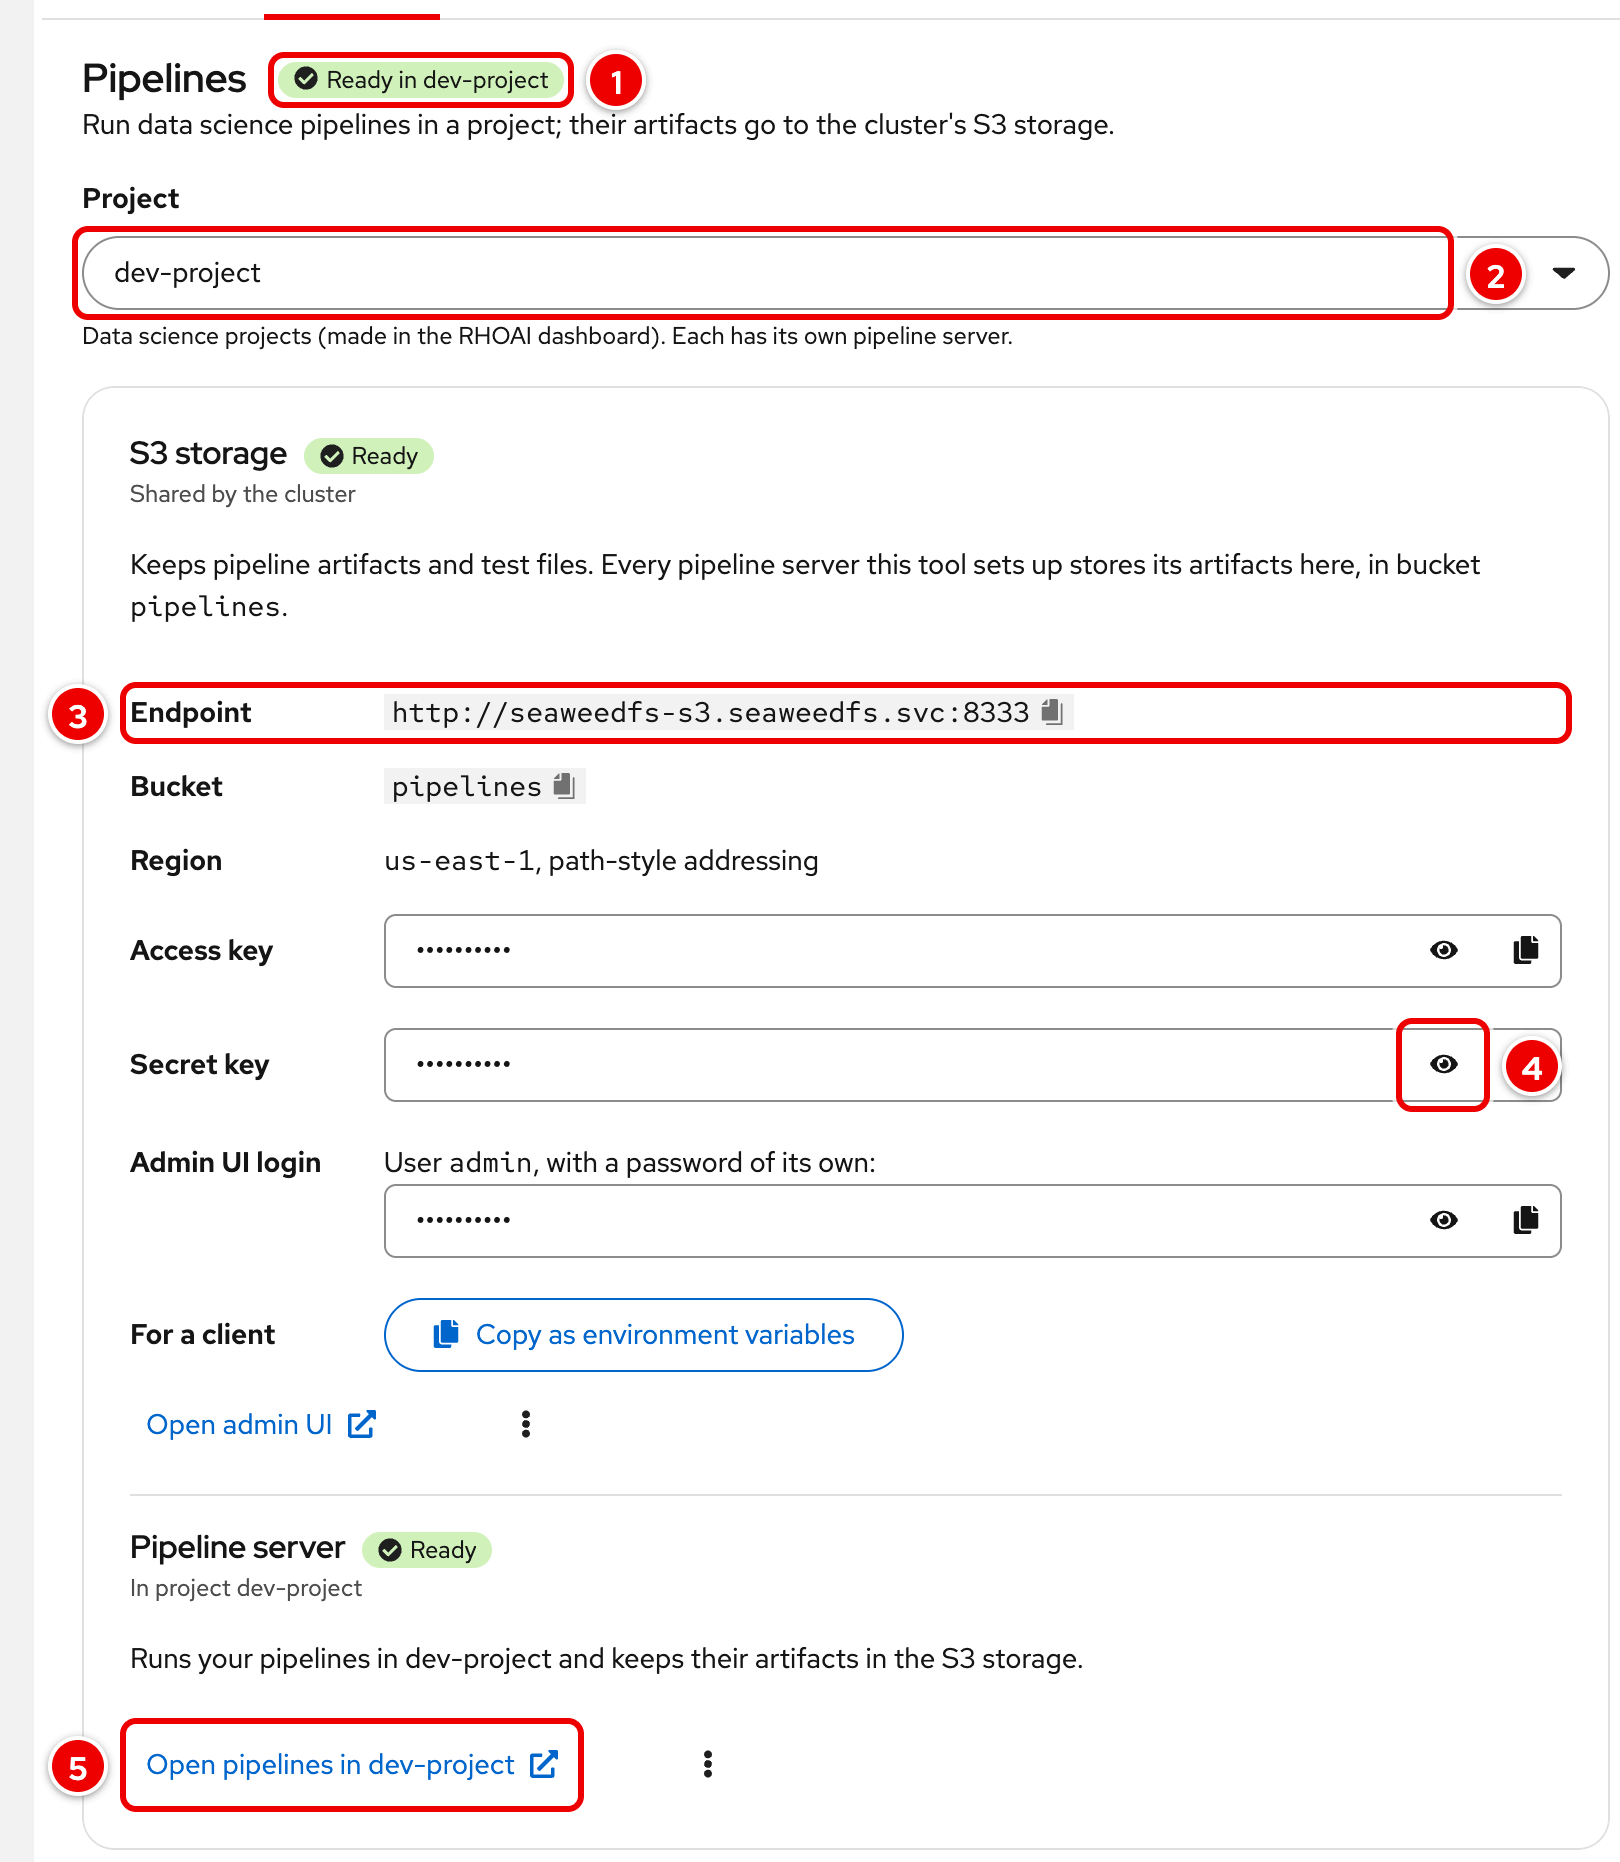
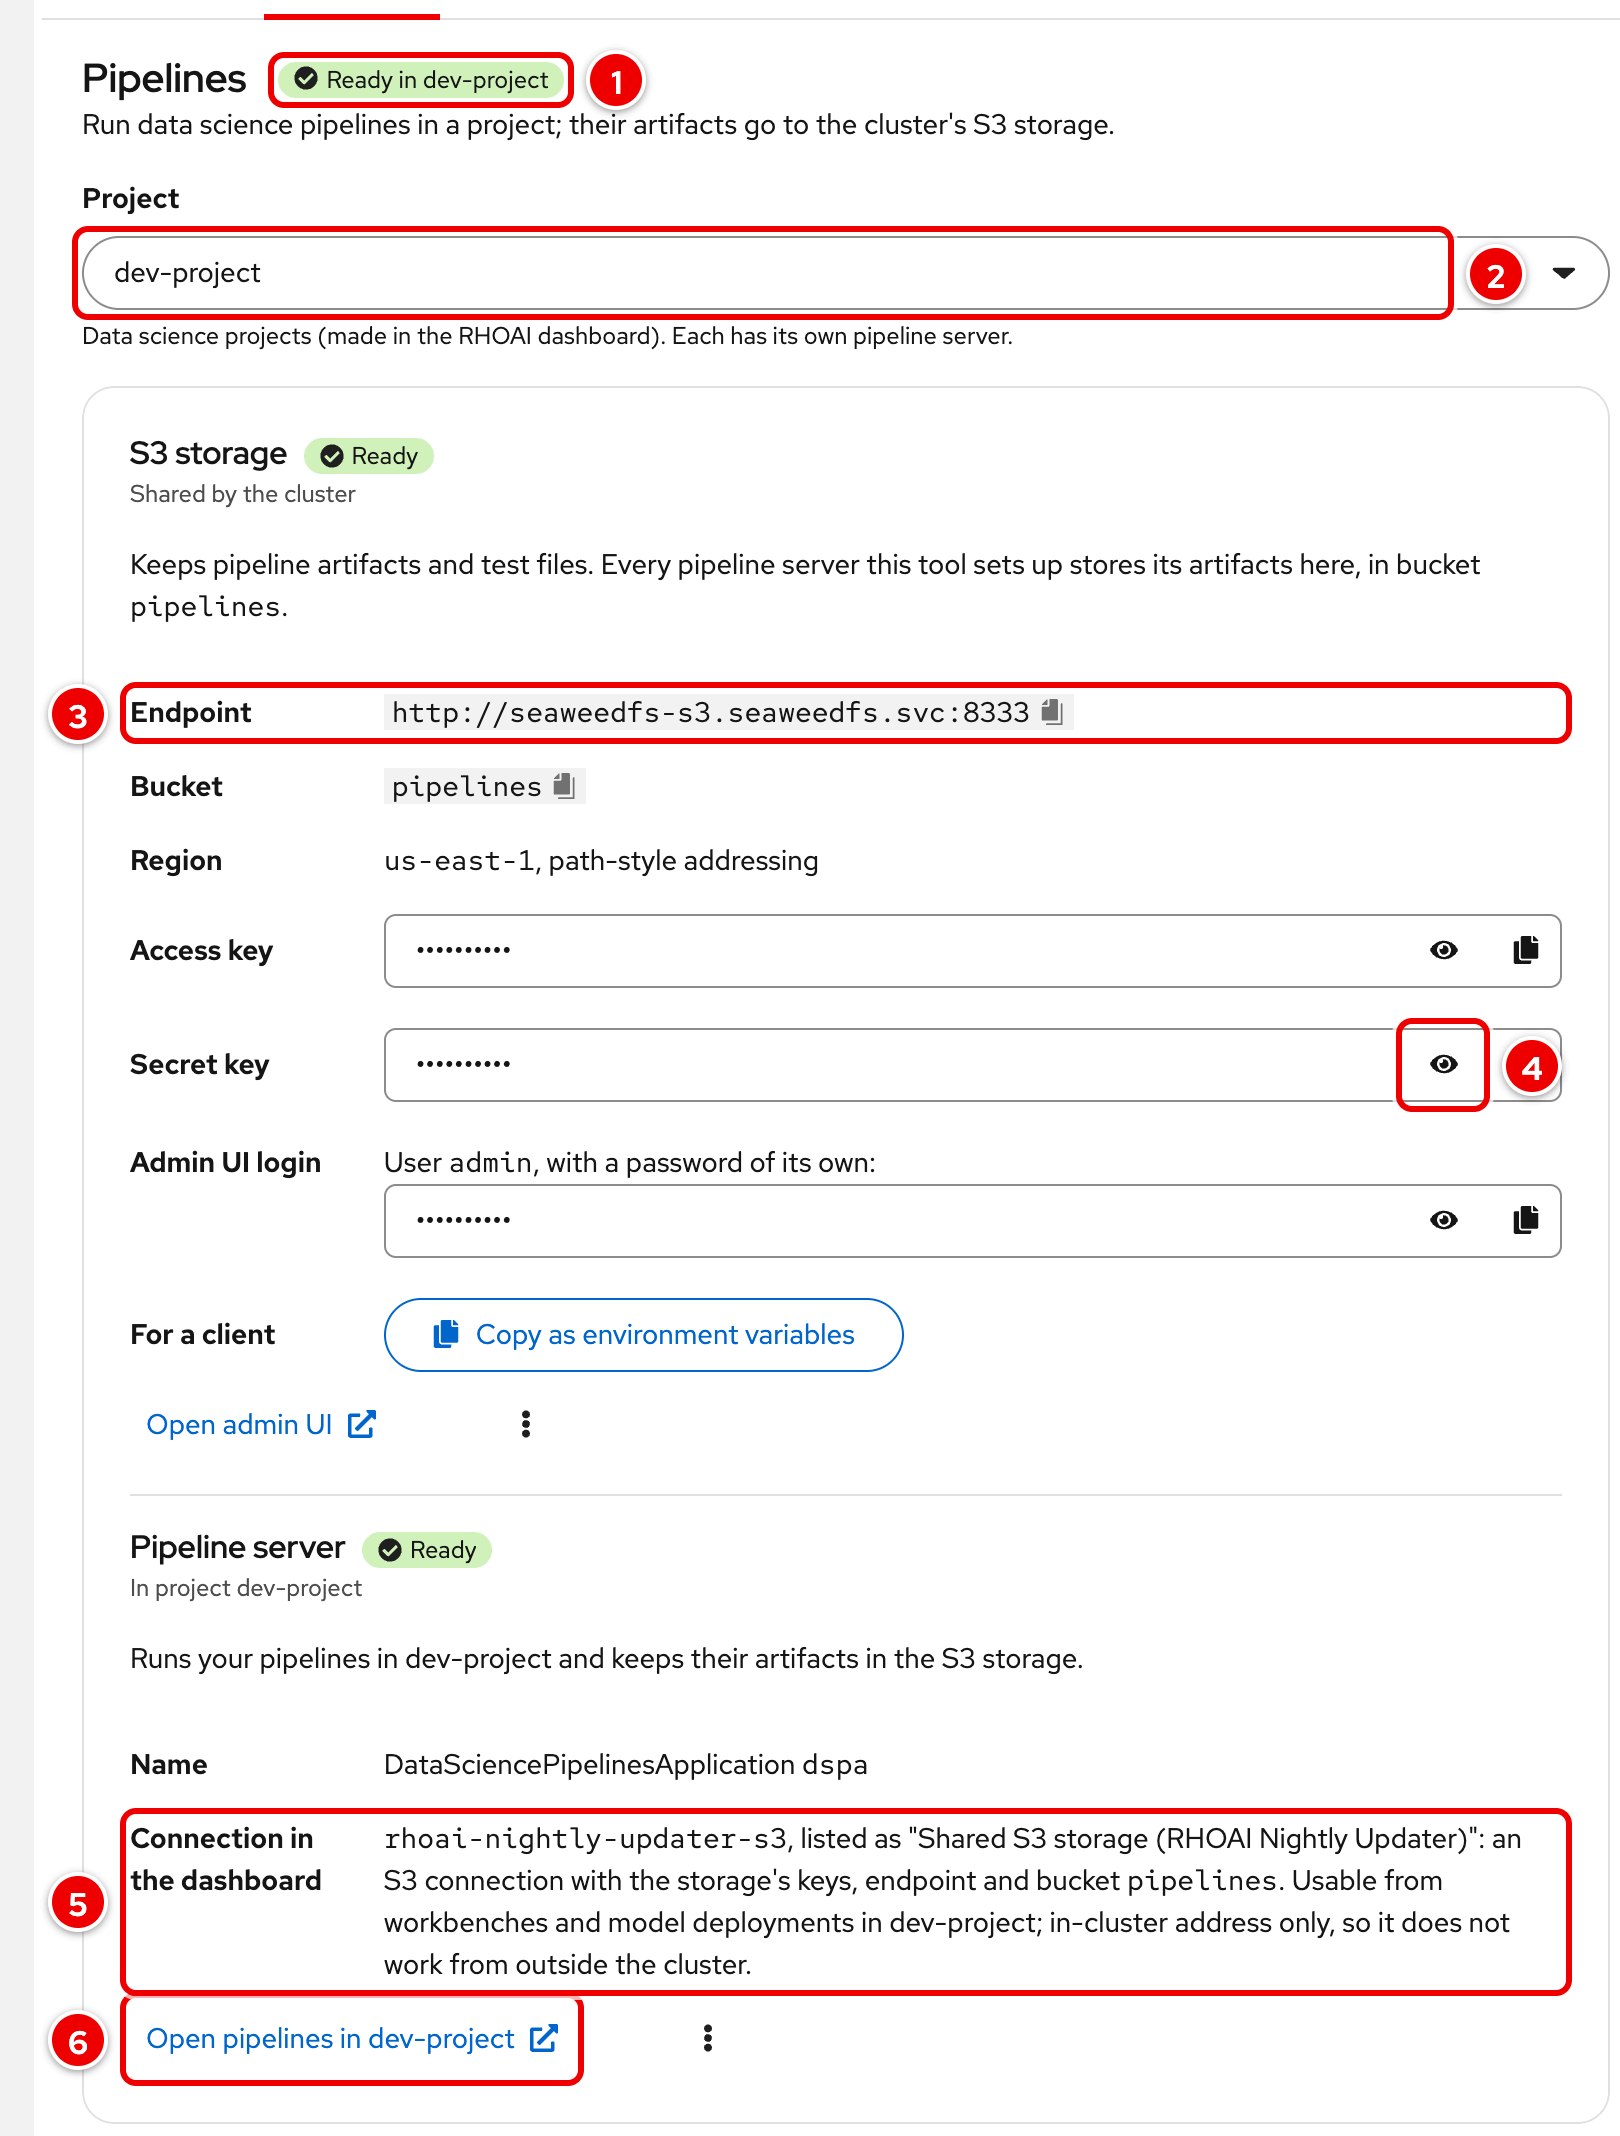
docs(pipelines): dspa, the Connection and Recreate in the docs and mock
README, RUNBOOK and CHANGELOG describe the pipeline server as the
dashboard makes it (named dspa, the Connection, owned secrets), the
nightly-dspa notice and Recreate with the standard name, and the new
refusals. The docs mock serves dspa with its Connection and a new
env-old-name scenario; capture.js adds environment-pipelines-old-name
and environment-pipelines-recreate-dialog and a callout for the
Connection row. Regenerated: environment-pipelines and
environment-pipeline-sample (the API address now names dspa); other
images the job touched were restored. The Connection row and the
recreate summary read more plainly.

diff --git a/frontend/src/components/environment/PipelinesTab.tsx b/frontend/src/components/environment/PipelinesTab.tsx
@@ -319,7 +319,7 @@ const PipelineServerPart: React.FC<PipelinesTabProps> = ({ status, project, busy
             <DescriptionListGroup>
               <DescriptionListTerm>Connection in the dashboard</DescriptionListTerm>
               <DescriptionListDescription>
-                <code>{server.connection}</code> ({CONNECTION_DISPLAY_NAME}), type S3: the S3 storage&apos;s keys, endpoint and bucket <code>pipelines</code>. Attach it to workbenches and model deployments in {project}; in-cluster address only, so it does not work from outside the cluster.
+                <code>{server.connection}</code>, listed as &quot;{CONNECTION_DISPLAY_NAME}&quot;: an S3 connection with the storage&apos;s keys, endpoint and bucket <code>pipelines</code>. Usable from workbenches and model deployments in {project}; in-cluster address only, so it does not work from outside the cluster.
               </DescriptionListDescription>
             </DescriptionListGroup>
           )}
@@ -531,7 +531,7 @@ export function pipelineServerConfirm(pending: Pending, pipelineServers: Resourc
         summary: <Content component="p">Replaces pipeline server <code>{pending.name}</code> in {pending.project} with one named <code>{DSPA_NAME}</code>, which workbench pipelines use. Everything is checked first; nothing is deleted if the new one would be refused. Takes 1 to 3 minutes, plus the old one&apos;s cleanup.</Content>,
         changes: [
           <>Project <code>{pending.project}</code>: DataSciencePipelinesApplication <code>{pending.name}</code> and Secret <code>{DSPA_SECRET_NAME}</code> are deleted; its database goes with it.</>,
-          <>Then DataSciencePipelinesApplication <code>{DSPA_NAME}</code> and Secret <code>{DSPA_SECRET_NAME}</code> and the dashboard S3 Connection <code>{CONNECTION_NAME}</code> (both owned by it) are created, storing artifacts in the same S3 storage.</>,
+          <>Then DataSciencePipelinesApplication <code>{DSPA_NAME}</code> is created, storing artifacts in the same S3 storage, with Secret <code>{DSPA_SECRET_NAME}</code> and the dashboard S3 Connection <code>{CONNECTION_NAME}</code>, both owned by it.</>,
         ],
         dataLoss: <>
           The run history of <code>{pending.name}</code>: its runs, experiments and imported pipelines{pvcList(ps).length > 0 ? <> (volume {pvcList(ps).map((n, i) => <React.Fragment key={n}>{i > 0 ? ", " : ""}<code>{n}</code></React.Fragment>)})</> : null}.

diff --git a/docs/tools/capture.js b/docs/tools/capture.js
@@ -529,10 +529,29 @@ async (page) => {
           { at: page.getByRole("combobox"), n: 2, pos: "r" },
           { at: row(storage, "Endpoint"), n: 3, pos: "l" },
           { at: storage.getByRole("button", { name: "Show the S3 secret key" }), n: 4, pos: "r" },
-          { at: part("Pipeline server").getByRole("link", { name: /Open pipelines/ }), n: 5, pos: "l" },
+          { at: part("Pipeline server").getByRole("link", { name: /Open pipelines/ }), n: 6, pos: "l" },
+          { at: row(part("Pipeline server"), "Connection in the dashboard"), n: 5, pos: "l" },
         ],
         pad: 24,
       });
+
+      // A pipeline server an earlier version named nightly-dspa: the
+      // workbench notice with Recreate, and its confirmation.
+      await open("/test-resources?tab=pipelines&project=dev-project", "env-old-name");
+      const oldServer = part("Pipeline server");
+      await crop("environment-pipelines-old-name", oldServer, {
+        notes: [
+          { at: oldServer.getByText(/Workbench pipelines don.t work/), n: 1, pos: "r" },
+          { at: oldServer.getByRole("button", { name: "Recreate with the standard name" }), n: 2, pos: "r" },
+        ],
+        pad: 24,
+      });
+      await oldServer.getByRole("button", { name: "Recreate with the standard name" }).click();
+      await wait(800);
+      await page.getByRole("dialog").getByRole("button", { name: "Details" }).click().catch(() => {});
+      await wait(300);
+      await crop("environment-pipelines-recreate-dialog", page.locator(".pf-v6-c-modal-box"), { noFit: true, pad: 6 });
+      await page.keyboard.press("Escape");
 
       await open("/test-resources?tab=mlflow", "env-live");
       await crop("environment-mlflow", [panel().getByRole("heading", { name: "MLflow", level: 2 }), part("MLflow server")], {

diff --git a/RUNBOOK.md b/RUNBOOK.md
@@ -291,7 +291,8 @@ The page has an **Overview** (each feature's state and next step) and one tab pe
 2. The project.
 3. The S3 endpoint and the bucket.
 4. The admin UI password, masked: show or copy it (cluster-admins only; it is read from the server only then).
-5. **Open pipelines**. In the storage's menu, **Delete** stays disabled while a pipeline server uses it, and says which.
+5. The dashboard S3 Connection `rhoai-nightly-updater-s3` set up with the pipeline server (owned by it; in-cluster address).
+6. **Open pipelines**. In the storage's menu, **Delete** stays disabled while a pipeline server uses it, and says which.
 
 | Problem | Fix |
 |---|---|
@@ -313,6 +314,11 @@ The page has an **Overview** (each feature's state and next step) and one tab pe
 | S3 storage deletion refused | A pipeline server still uses the storage (the message names it). Delete that first, or select it in **Clean up**. After a partial deletion, run Delete again |
 | "Data Science Pipelines (or MLflow) is turned off on this cluster" | The DataScienceCluster's component (`aipipelines`, `datasciencepipelines` on DSC v1, `mlflowoperator`) is not Managed: the operator keeps the CRD, so a pipeline server or MLflow would be created and never start. Set up refuses before changing anything. A cluster-admin sets the component to Managed (`oc edit datasciencecluster <name>`), waits for it to be ready on the Components page, then sets up |
 | Clean up stopped | The message names the part that failed and what was not done. Fix that part's cause (the same as for its own Delete) and run Clean up again: parts already deleted are no longer offered |
+| "Workbench pipelines don't work with this pipeline server" | The pipeline server was set up by an earlier version as `nightly-dspa`; odh-notebook-controller gives workbenches the pipeline config of the DSPA named `dspa` only. **Recreate with the standard name** (it checks everything first, then deletes `nightly-dspa` with its run history; S3 artifacts stay) or keep it: the dashboard's pipelines pages and the KFP SDK work either way. If the old server stays Terminating, Recreate stops there; use **Set up** once it is gone |
+| Set up: "already has pipeline server 'nightly-dspa'" | Same cause: use **Recreate with the standard name** instead of Set up |
+| Set up: "is not a Data Science project" | The pipeline server goes only into an existing data science project; the tool never creates one. Create the project in the RHOAI dashboard |
+| Set up or Delete: "Secret 'rhoai-nightly-updater-s3' already exists ... not created by this tool" | Someone else made a Secret with the Connection's name in the project. Nothing was changed; rename or delete theirs |
+| Pipeline server reads Error after 5 minutes | Its API server is not ready 5 minutes after creation (`APIServerReady`, the dashboard's own timeout). `Ready=False` alone (another component restarting) does not count |
 | "Project ... no longer exists" | The address names a project that was deleted (or is no longer a data science project). Choose another; Set up is not offered for it: a pipeline server goes only into an existing data science project, and setup refuses any other namespace |
 | Namespace left after deletion | Delete keeps namespace `seaweedfs` unless you tick **Also delete namespace seaweedfs (created by this tool)**; it is offered only when the namespace carries the tool label and the tool wrote it, and deletes everything in it. Otherwise `oc delete project seaweedfs` (or `minio`) once `oc get all,pvc,secret -n <namespace>` is empty |
 | Pipelines tab: the project picker is empty after clearing it | Expected: a clear is kept in the address (`project=` with no value), so the default project does not come back; choose a project, or open the tab without `project=` for the default |

diff --git a/README.md b/README.md
@@ -88,7 +88,19 @@ Under the table, **Clean up everything** deletes what this tool created (the pip
 2. The project picker (type to filter; each project says what it has).
 3. Each part shows its health, its actions and its details inline: the S3 endpoint (`http://seaweedfs-s3.seaweedfs.svc:8333`), the bucket and the admin UI user.
 4. The S3 access key and secret key are masked: the eye shows one and the copy button copies it; **Copy as environment variables** copies the whole connection (`AWS_ENDPOINT_URL`, the keys, region, bucket). The admin UI (user `admin`) has a password of its own, shown the same way. Each is read from the server only then (cluster-admins only), and gone when you hide it or leave the tab.
-5. **Open pipelines** (and **Open admin UI**). Each part's menu (⋮) has **Delete** (and **Repair** when it applies), only for what this tool created; a disabled entry says why.
+5. The pipeline server is set up as the dashboard sets one up: named `dspa` (the only name workbench pipelines find), with the dashboard's settings, its S3 Secret owned by it, and a dashboard S3 **Connection** `rhoai-nightly-updater-s3` ("Shared S3 storage (RHOAI Nightly Updater)") that workbenches and model deployments in the project can use. The Connection carries the in-cluster address, so it works from pods only. Deleting the pipeline server, here or in the dashboard, deletes both.
+6. **Open pipelines** (and **Open admin UI**). Each part's menu (⋮) has **Delete** (and **Repair** when it applies), only for what this tool created; a disabled entry says why.
+
+A pipeline server an earlier version set up is named `nightly-dspa`. It keeps working (the dashboard's pipelines pages, the KFP SDK, Migrate storage, Delete), but workbench pipelines (Elyra) cannot find it, so the tab says so and offers **Recreate with the standard name**:
+
+<img src="docs/images/environment-pipelines-old-name.png" alt="Pipeline server nightly-dspa with the warning Workbench pipelines don't work with this pipeline server and the action Recreate with the standard name" width="760">
+
+1. Why: workbenches look for the pipeline server named `dspa`.
+2. **Recreate with the standard name** asks first; the confirmation says what goes:
+
+<img src="docs/images/environment-pipelines-recreate-dialog.png" alt="Recreate the pipeline server with the standard name: nightly-dspa, its Secret and its database are deleted, then dspa, its Secret and the Connection are created; the run history is lost, the artifacts in the S3 storage stay" width="760">
+
+Everything the new server needs is checked first; nothing is deleted if it would be refused. Then `nightly-dspa` is deleted with its database (its runs, experiments and imported pipelines are lost; the artifacts already in the S3 storage stay, but no run links to them), and `dspa` is set up in its place.
 
 Before **Set up**, the tab shows what it needs: a DataScienceCluster component that is not Managed (with **Open Components**), no data science project (with a link to the dashboard's Projects page), or a namespace `seaweedfs` that is someone else's. Set up stays disabled, with the reason under it. Once the pipeline server is ready, **Use it** shows where its runs are, its API endpoint and a KFP SDK snippet, followed by **What next**. Problems read in plain words, with the fix (Repair, Revert, View logs) on the alert and the pod's reasons under **Technical details**. Every change runs in one dialog with its steps and outcome; if you close it, a notification brings the outcome back.
 

diff --git a/CHANGELOG.md b/CHANGELOG.md
@@ -20,6 +20,22 @@ only accepts a tag whose version is the top dated section. See
 
 ### Added
 
+- **Pipelines: set up as the RHOAI dashboard sets one up.** The pipeline
+  server is named `dspa`, the only name odh-notebook-controller gives
+  workbenches a pipeline config for, so Elyra pipelines from a workbench
+  work. It carries the dashboard's settings (`managedPipelines`, `mlflow`,
+  when the installed CRD declares them), its S3 Secret is owned by it, and a
+  dashboard S3 Connection `rhoai-nightly-updater-s3` ("Shared S3 storage
+  (RHOAI Nightly Updater)") lets workbenches and model deployments use the
+  shared storage. Deleting the server, here or in the dashboard, deletes
+  both. A server an earlier version named `nightly-dspa` keeps working; the
+  Pipelines tab explains the workbench limitation and offers **Recreate
+  with the standard name** (its run history is lost; S3 artifacts stay).
+  Setup now refuses a namespace that is not a Data Science project instead
+  of creating it, and a server is reported stuck after 5 minutes only while
+  its API server is not ready, as the dashboard does. New RBAC: Secret
+  `rhoai-nightly-updater-s3` (`get patch delete`).
+
 - **Models tab: a catalog of four CPU models.** A model picker offers
   SmolLM2 135M Instruct (smoke test), Qwen2.5 0.5B Instruct (the default),
   Qwen3 1.7B (tool calling; thinking off by default) and Granite Embedding
